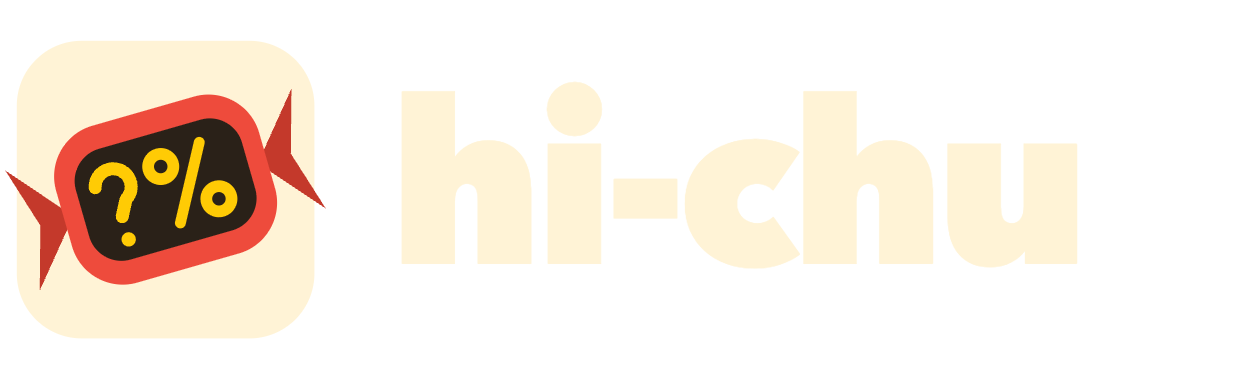
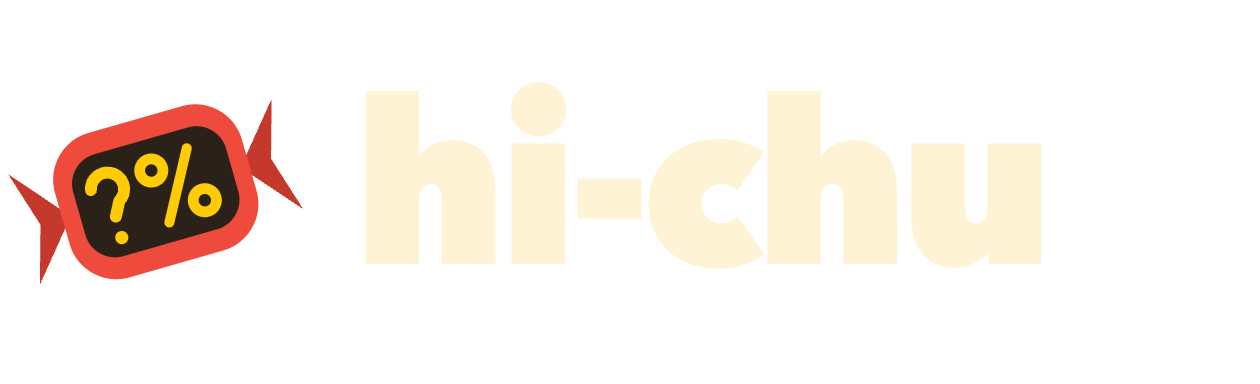
Drop the tile so the wrapper ends stop overhanging it
The sweet measures about 138 units across once tilted, inside a 124-unit
tile, so the twist ends cleared the edge on both sides. Asymmetrically, which
is what made it read as a mistake rather than a crop.

Cropping the ends at the tile edge looked like the tips had been chopped off,
and scaling the sweet down to fit solved it by retreating — a small mark
floating in a ring of dead cream, at exactly the sizes that needed it
biggest. Removing the frame instead makes the problem structurally impossible:
a tile would always have to be wider than the widest thing in the drawing, and
the twist ends are that. The silhouette carries the mark on its own, which is
also the more distinctive answer, since every other extension icon is a
rounded square with something inside it.

Two things fall out of having no frame:

The fit is now COMPUTED from the drawing's own corner points (halfExtent)
rather than stored as a constant. The hand-derived 0.865 was wrong — the true
fit is 0.943 — and a stored number is exactly how the ends came to overhang in
the first place. Moving a vertex now moves the scale with it.

The small drawing pulls its twist ends in (reach 14, not 22). With no tile
filling the slot, a stubbier sweet scales up bigger in the same 16 pixels, and
a long thin end there is a sliver nobody can see anyway. Each drawing is fitted
from its own geometry, so this costs nothing but a constant.

iOS is now the only icon with a ground: it forbids an alpha channel in an app
[…]

Changed region(s): [[0.0, 0.0938, 0.8667, 0.9062]]

diff --git a/CLAUDE.md b/CLAUDE.md
@@ -51,8 +51,12 @@ three, Safari's eleven-file app-icon catalogue, and the two loose Safari copies 
 README lockup. Editing one PNG by hand guarantees drift; edit the drawing and re-run. The mark
 exists at three levels of detail and `OPTICAL` picks between them by **point** size, not pixel
 size, because a retina asset is more pixels of a *small* icon and must stay simple (Safari's
-`mac-icon-16@2x` is 32px shown at 16pt). `node scripts/make-icons.mjs --proof` renders a sheet
-to `.icon-proof/` — the thresholds were chosen by looking, so looking is how to re-check them.
+`mac-icon-16@2x` is 32px shown at 16pt). There is deliberately **no tile behind the sweet** —
+a frame would have to be wider than the twist ends and could only crop or shrink them, and the
+scale that fits the mark to its box is COMPUTED from the geometry (`halfExtent`), never stored,
+so moving a vertex can't leave a stale number overhanging the edge. iOS is the one opaque icon,
+since it forbids an alpha channel. `node scripts/make-icons.mjs --proof` renders a sheet to
+`.icon-proof/` — the thresholds were chosen by looking, so looking is how to re-check them.
 **Shape of the suite, base to top.** Unit + integration tests (`npm run check`) are the
 base and middle — colocated `*.test.ts` beside each module, two tests driven by real
 captured data (`integration.test.ts`, `section.test.ts`), and one architecture-fitness
